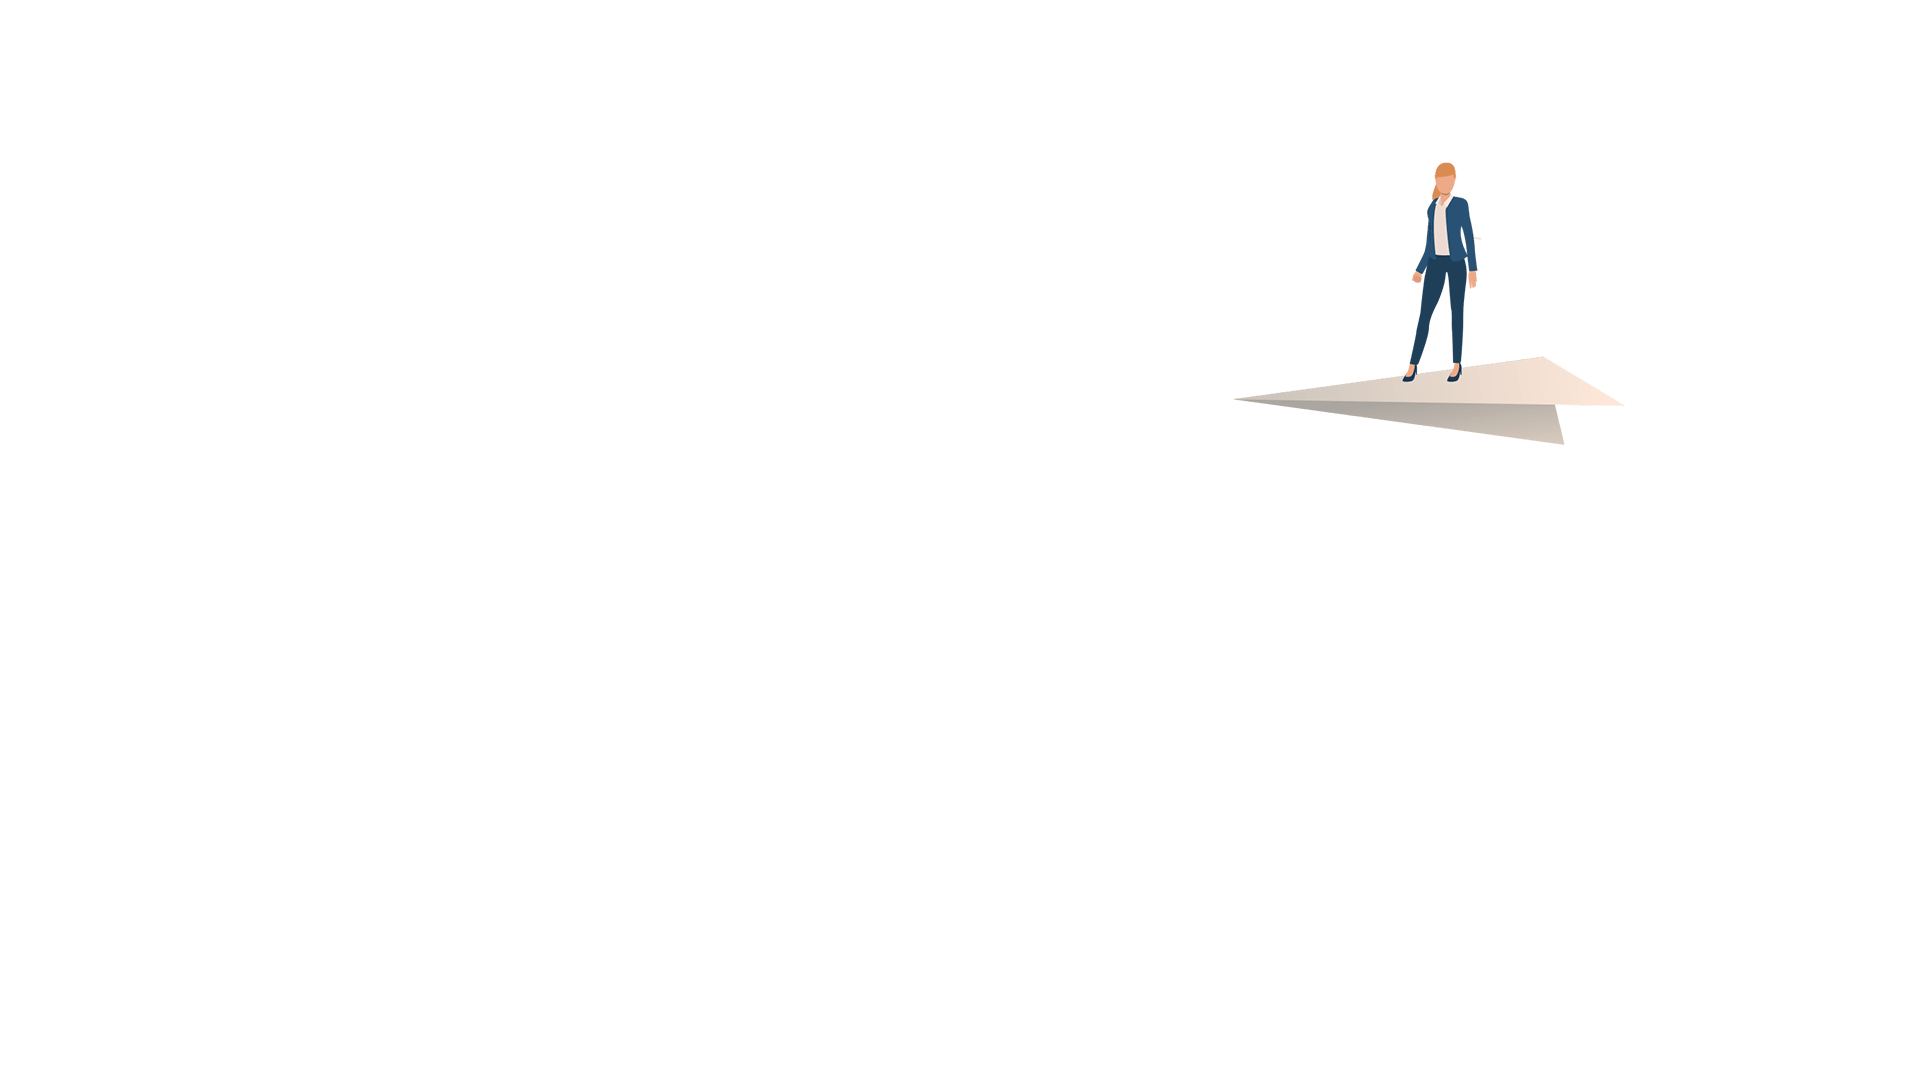
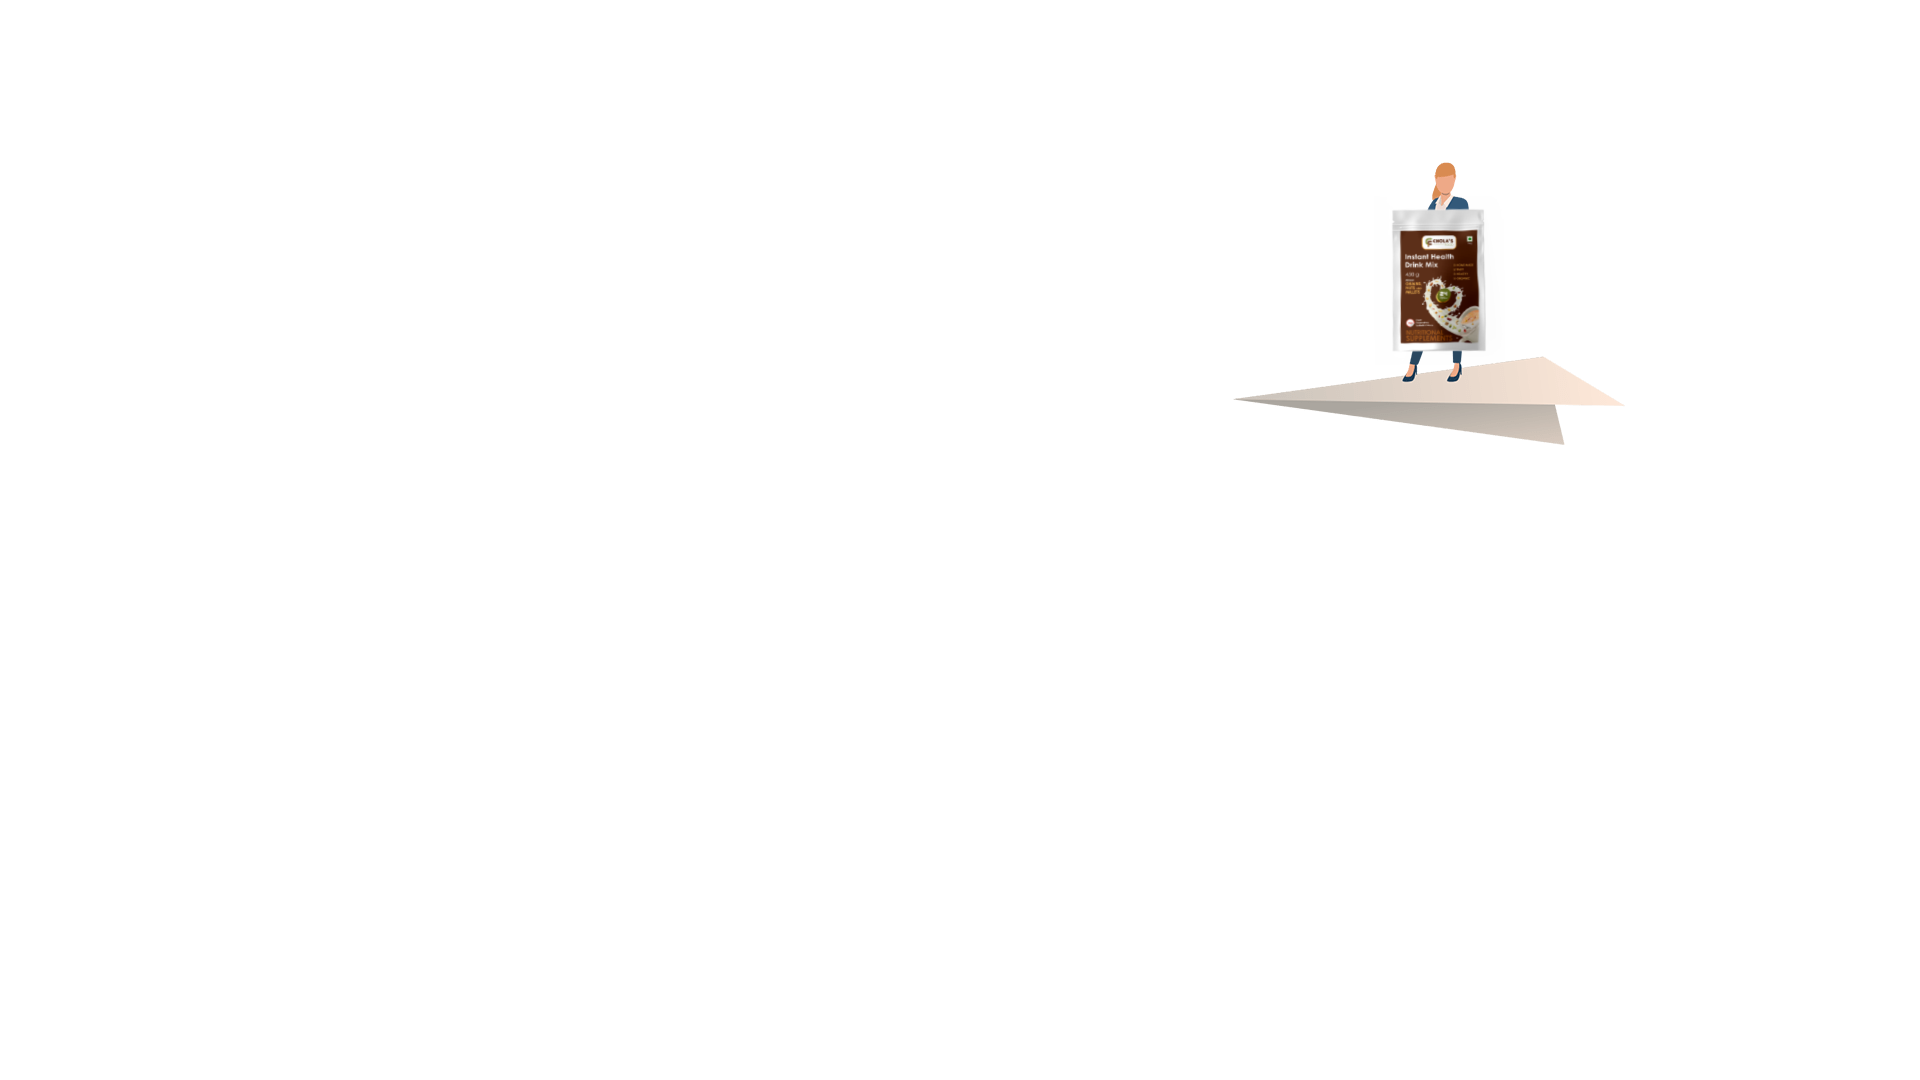
Main Changes

Changed region(s): [[0.7188, 0.1833, 0.7812, 0.3361]]

diff --git a/index.html b/index.html
@@ -7,10 +7,10 @@
 	<meta name="keywords" content="" />
 	<meta name="author" content="" />
 	<meta name="robots" content="" />
-	<meta name="description" content="Frost- Multipurpose Coming Soon" />
-	<meta property="og:title" content="Frost- Multipurpose Coming Soon" />
-	<meta property="og:description" content="Frost- Multipurpose Coming Soon" />
-	<meta property="og:image" content="Frost- Multipurpose Coming Soon" />
+	<meta name="description" content="Chola's Foods" />
+	<meta property="og:title" content="Chola's Foods" />
+	<meta property="og:description" content="Chola's Foods" />
+	<meta property="og:image" content="Chola's Foods" />
 	<meta name="format-detection" content="telephone=no">
 	
 	<!-- FAVICONS ICON -->
@@ -18,7 +18,7 @@
 	<link rel="shortcut icon" type="image/x-icon" href="images/favicon.png" />
 	
 	<!-- PAGE TITLE HERE -->
-	<title>Frost- Multipurpose Coming Soon</title>
+	<title>Chola's Foods</title>
 
 	<!-- MOBILE SPECIFIC -->
 	<meta name="viewport" content="width=device-width, initial-scale=1.0, maximum-scale=1.0">
@@ -43,7 +43,7 @@
 	<canvas class="site-nav-canvas" style="display: none;"></canvas>
     <!-- Content -->
         <!-- Side Nav -->
-        <div class="about-sidebox"> 
+        <!-- <div class="about-sidebox"> 
 			<a href="javascript:void(0)" class="closebtn bg-primary">×</a>
             <div class="about-section">
                 <div class="contact-box">
@@ -161,7 +161,7 @@
 					</div>
 				</div>
             </div>
-        </div>
+        </div> -->
         <!-- Side Nav End-->
         <!-- Coming Soon Contant -->
         <div class="dez-coming-soon style-10 wow fadeIn" data-wow-duration="0.80s" data-wow-delay="0.50s">
@@ -175,10 +175,10 @@
 				
 				<div class="dez-content top-left center-md">
 					<div class="logo wow fadeInUp top-right" data-wow-duration="1.5s" data-wow-delay="1.0s">
-						<a href="index.html"><img src="images/logo10.png" alt=""></a>
+						<a href="#"><img src="images/logo10.png" alt=""></a>
 					</div>
-					<h2 class="dez-title ml2 wow fadeInUp" data-wow-duration="1.5s" data-wow-delay="1.5s"><span>We are launching soon please </span><br/><span>reload after minutes</span></h2>
-					<p class="wow fadeInUp" data-wow-duration="1.5s" data-wow-delay="1.7s">Lorem ipsum dolor sit amet consectetur adipisicing elit sed eiusmod tempor incididunt labore dolore.</p>
+					<h2 class="dez-title ml2 wow fadeInUp" data-wow-duration="1.5s" data-wow-delay="1.5s"><span>We are Coming Soon </span><br/><span>reload after minutes</span></h2>
+					<p class="wow fadeInUp" data-wow-duration="1.5s" data-wow-delay="1.7s">Bring Healthy Hours Of Energy Everyday With Our Health Mix Products.</p>
 					<div class="countdown count-1">
 						<div class="date wow fadeInUp" data-wow-duration="1.5s" data-wow-delay="1.0s">
 							<span class="days time"></span>
@@ -197,23 +197,23 @@
 							<span>Second</span>
 						</div>
 					</div>
-					<div class="dez-coming-btn wow fadeInUp" data-wow-duration="1.5s" data-wow-delay="2.2s">
+					<!-- <div class="dez-coming-btn wow fadeInUp" data-wow-duration="1.5s" data-wow-delay="2.2s">
 						<a href="javascript:void(0);"  class="site-button openbtn button-lg m-r10 gradient">Get In Touch</a>
 						<a href="javascript:void(0);" data-toggle="modal" data-target="#exampleModal" class="site-button button-lg outline">Subscribe Now</a>
-					</div>
+					</div> -->
 				</div>
 				<div class="bottom-left">
 					<ul class="dez-social-icon social-2">
-						<li class="wow fadeInRight" data-wow-duration="1.5s" data-wow-delay="1.0s"><a href="#"><i class="fa fa-facebook"></i><span>Facebook</span></a></li>
-						<li class="wow fadeInRight" data-wow-duration="1.5s" data-wow-delay="1.3s"><a href="#"><i class="fa fa-twitter"></i><span>Twitter</span></a></li>
-						<li class="wow fadeInRight" data-wow-duration="1.5s" data-wow-delay="1.6s"><a href="#"><i class="fa fa-linkedin"></i><span>Linkedin</span></a></li>
+						<li class="wow fadeInRight" data-wow-duration="1.5s" data-wow-delay="1.0s"><a href="https://www.facebook.com/cholasfood"><i class="fa fa-facebook"></i><span>Facebook</span></a></li>
+						<li class="wow fadeInRight" data-wow-duration="1.5s" data-wow-delay="1.3s"><a href="https://www.instagram.com/cholasfood/"><i class="fa fa-instagram"></i><span>Instagram</span></a></li>
+						<li class="wow fadeInRight" data-wow-duration="1.5s" data-wow-delay="1.6s"><a href="https://goo.gl/maps/Q2Cu21h1KaAdd7dT9"><i class="fa fa-google"></i><span>Google</span></a></li>
 					</ul>
-					<p class="copyright-text wow fadeInUp" data-wow-duration="1.5s" data-wow-delay="2s"><span>© 2020 - Made with</span><span class="heart"><i></i></span>By <a href="#" class="made-by">DexignZone</a></p>
+					<p class="copyright-text wow fadeInUp" data-wow-duration="1.5s" data-wow-delay="2s"><span>© 2021 by Chola's Food -  Proudly created by</span><span class=""><i></i></span> <a href="http://www.eettitech.com/" class="made-by">EETTI TECH</a></p>
 				</div>
             </div>
         </div>
         <!-- Coming Soon Contant -->
-		<div class="modal fade subscribe-box" id="exampleModal" tabindex="-1" role="dialog" aria-labelledby="exampleModalLabel" aria-hidden="true">
+		<!-- <div class="modal fade subscribe-box" id="exampleModal" tabindex="-1" role="dialog" aria-labelledby="exampleModalLabel" aria-hidden="true">
 			<div class="modal-dialog" role="document">
 				<form action="script/mailchamp.php" class="dzSubscribe modal-content" method="post">
 					<div class="modal-header">
@@ -234,7 +234,7 @@
 						<button type="submit" class="site-button gradient button-lg shadow">Subscribe Now</button>
 					</div>
 				</form>
-			</div>
+			</div> -->
 		</div>
 		<!-- Content END-->
 </div>
